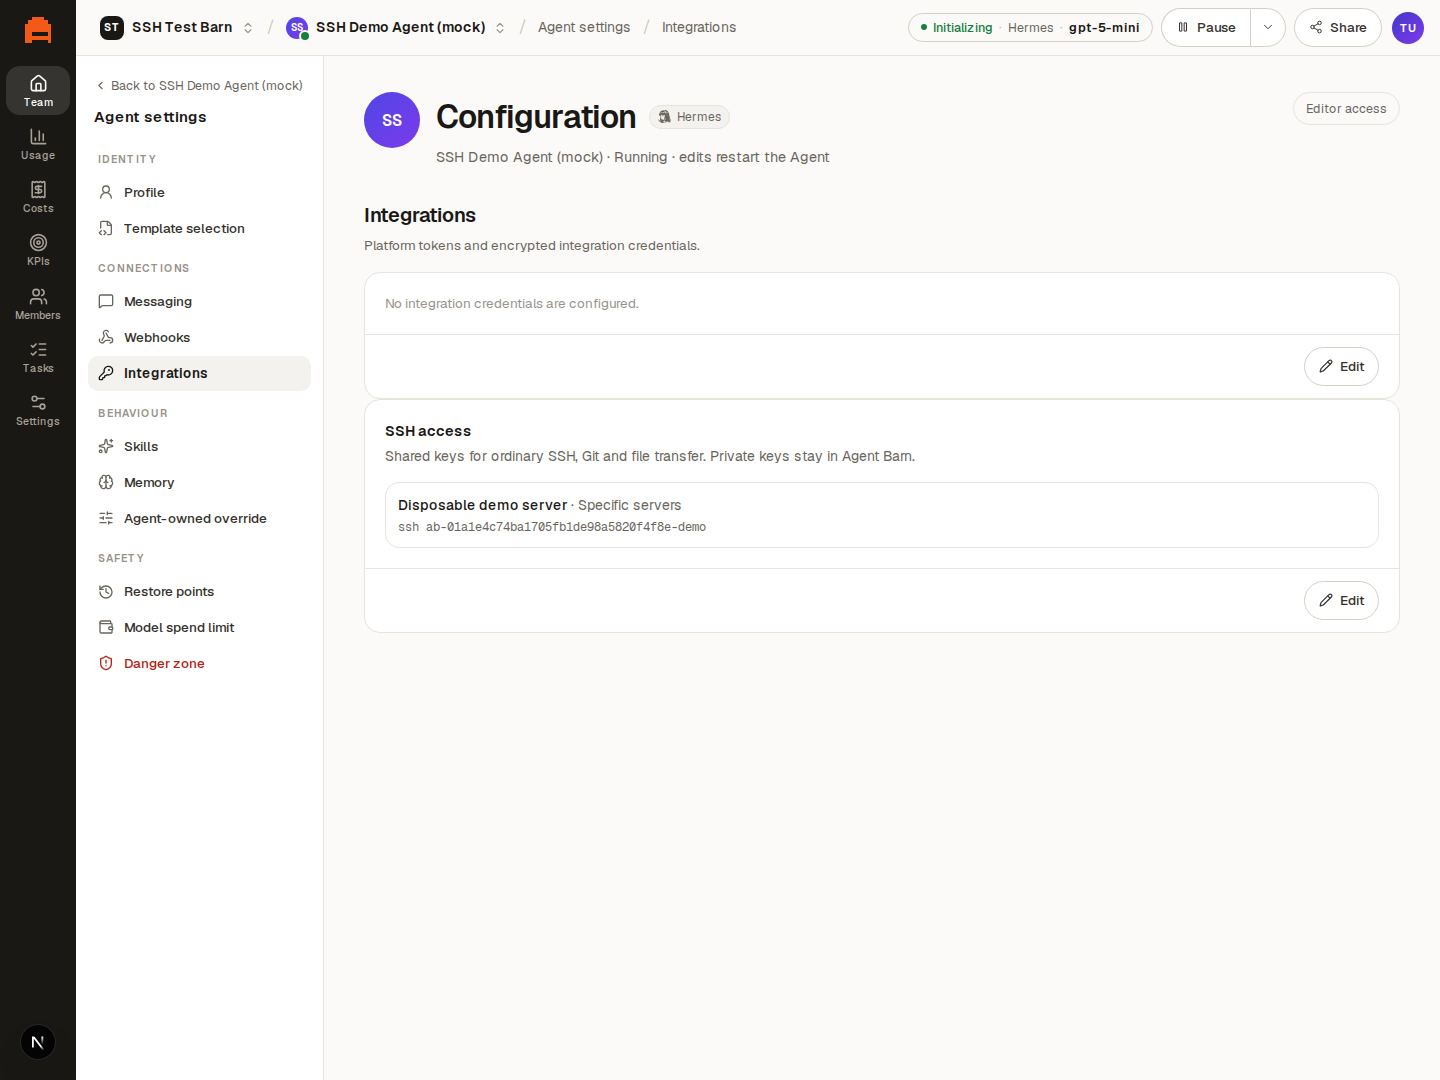
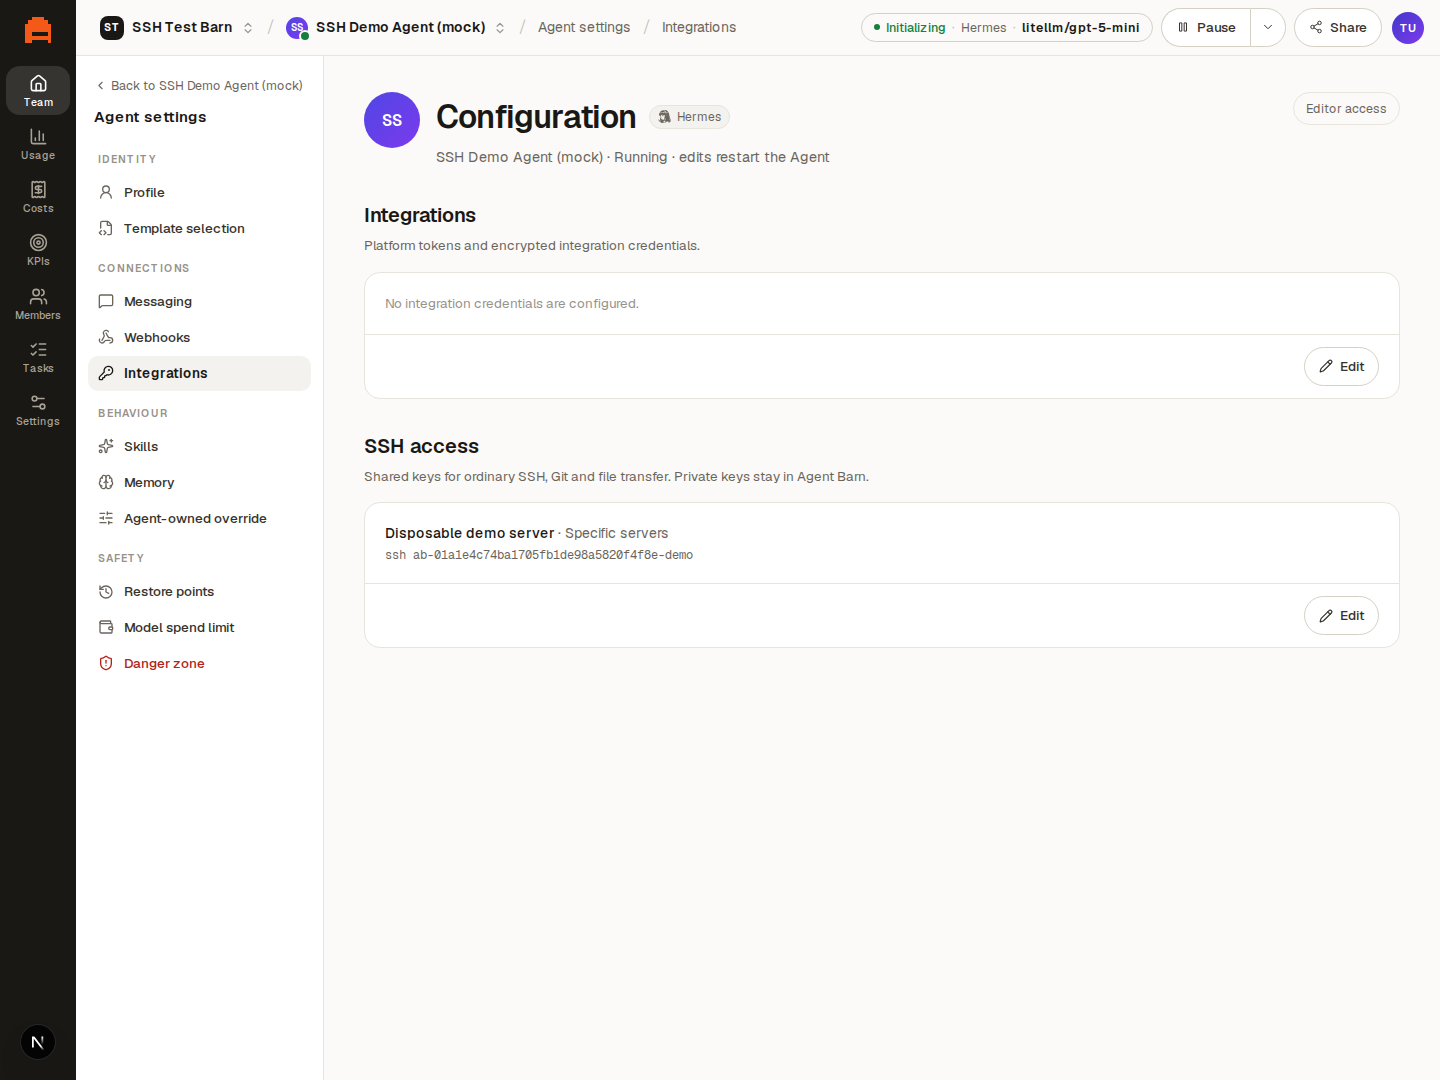
docs(ssh): show successful key setup and assignment flows

Changed region(s): [[0.25, 0.3972, 0.625, 0.5194], [0.5938, 0.0, 0.75, 0.0306], [0.9062, 0.55, 0.9688, 0.5806]]

diff --git a/docs/features/ssh-access/EVIDENCE.md b/docs/features/ssh-access/EVIDENCE.md
@@ -3,6 +3,9 @@
 Observed: 2026-11-16 (Europe/Berlin)
 Tested implementation: `ee7e5a9c81b8c73cda9f731a35eb06cf6fddd261`, based on staging `d39a4b43`.
 The following evidence/documentation commit changes no executable source.
+The settings layout and CI fixture follow-up were tested at
+`44575f716dd0230b028bfeaba65df8f2d5c11484`; the original feature checks below
+remain attributed to `ee7e5a9c`.
 
 ## Environment and boundary
 
@@ -59,13 +62,52 @@ are not claims that the real API returned 503.
 
 ## Screenshots
 
-[Shared Credentials](evidence/shared-credentials.png),
-[public identity and server policy](evidence/key-policy.png),
-[Agent SSH access](evidence/agent-access.png).
+These are ordered captures from successful flows against the real local API,
+not mocked save responses. The generation flow uses a temporary unattached key;
+the assignment flow uses the existing disposable server's configured key.
+
+| Step | Screenshot and observed result |
+| --- | --- |
+| 1. Generate a shared key | [Completed key form and Save action](evidence/01-generate-key.png). |
+| 2. Key creation succeeds | [Saved public identity](evidence/02-key-saved.png); no private key is returned. The temporary key was subsequently deleted. |
+| 3. Select access for an Agent | [Checked shared key and Apply action](evidence/03-select-key.png), using a fresh stopped **SSH setup example** Agent. |
+| 4. Confirm the change | [Apply confirmation](evidence/04-confirm-access.png) explicitly keeps this Agent stopped. |
+| 5. Verify the saved result | [Assigned key and SSH shortcut after reloading](evidence/05-access-saved.png). The real PUT returned 200; settings correctly remain pending until the next start. |
+| 6. Check phone layout | [390-pixel layout](evidence/06-access-mobile.png): the access badge clears the title, and the SSH shortcut wraps without horizontal overflow. |
+
+[Shared Credentials overview](evidence/shared-credentials.png),
+[public identity and configured server policy](evidence/key-policy.png),
+[existing running mock Agent](evidence/agent-access.png),
+[successful assignment observations](evidence/happy-path.json).
+
+The temporary stopped Agent was deleted after capture; the existing running
+Hermes demo was not restarted by this UI check. Its actual SSH execution proof
+is the separate [native terminal transcript](evidence/live-demo.json).
 
 ![Shared SSH credentials in the running local app](evidence/shared-credentials.png)
 
 ![SSH key attached to the mock Agent](evidence/agent-access.png)
+
+## Settings layout follow-up verification
+
+The Integrations and SSH sections now have a 32-pixel gap and matching headings
+outside their cards. Assigned SSH keys use plain rows inside the settings card;
+selection uses a background highlight instead of another bordered card. Long
+aliases wrap on narrow screens. The Configuration title and access badge no
+longer overlap at the checked 390-pixel width.
+
+At `44575f71`, real browser creation, selection, confirmation, successful save,
+reload and mobile inspection passed without browser page errors. Twelve selected
+Playwright checks passed (`ssh.spec.ts` and `integration-setup.spec.ts`, including
+the authentication setup). `make check-api`, `make check-ui`, `make lint-ui`, and
+`git diff --check` passed. The successful screenshots were visually inspected.
+
+The preceding CI SSH image checks failed because the disposable server's
+read-only `authorized_keys` bind mount retained the runner's ownership. The
+fixture now copies its inputs into root-owned server files and retains
+`StrictModes yes`. A local ownership reproduction failed with exit 255 before
+the fix and returned `owner-fixture-success` afterwards. Both actual runtime
+SSH contracts passed again (2 tests); the production signing code is unchanged.
 
 ## Automated verification at the tested commit
 
